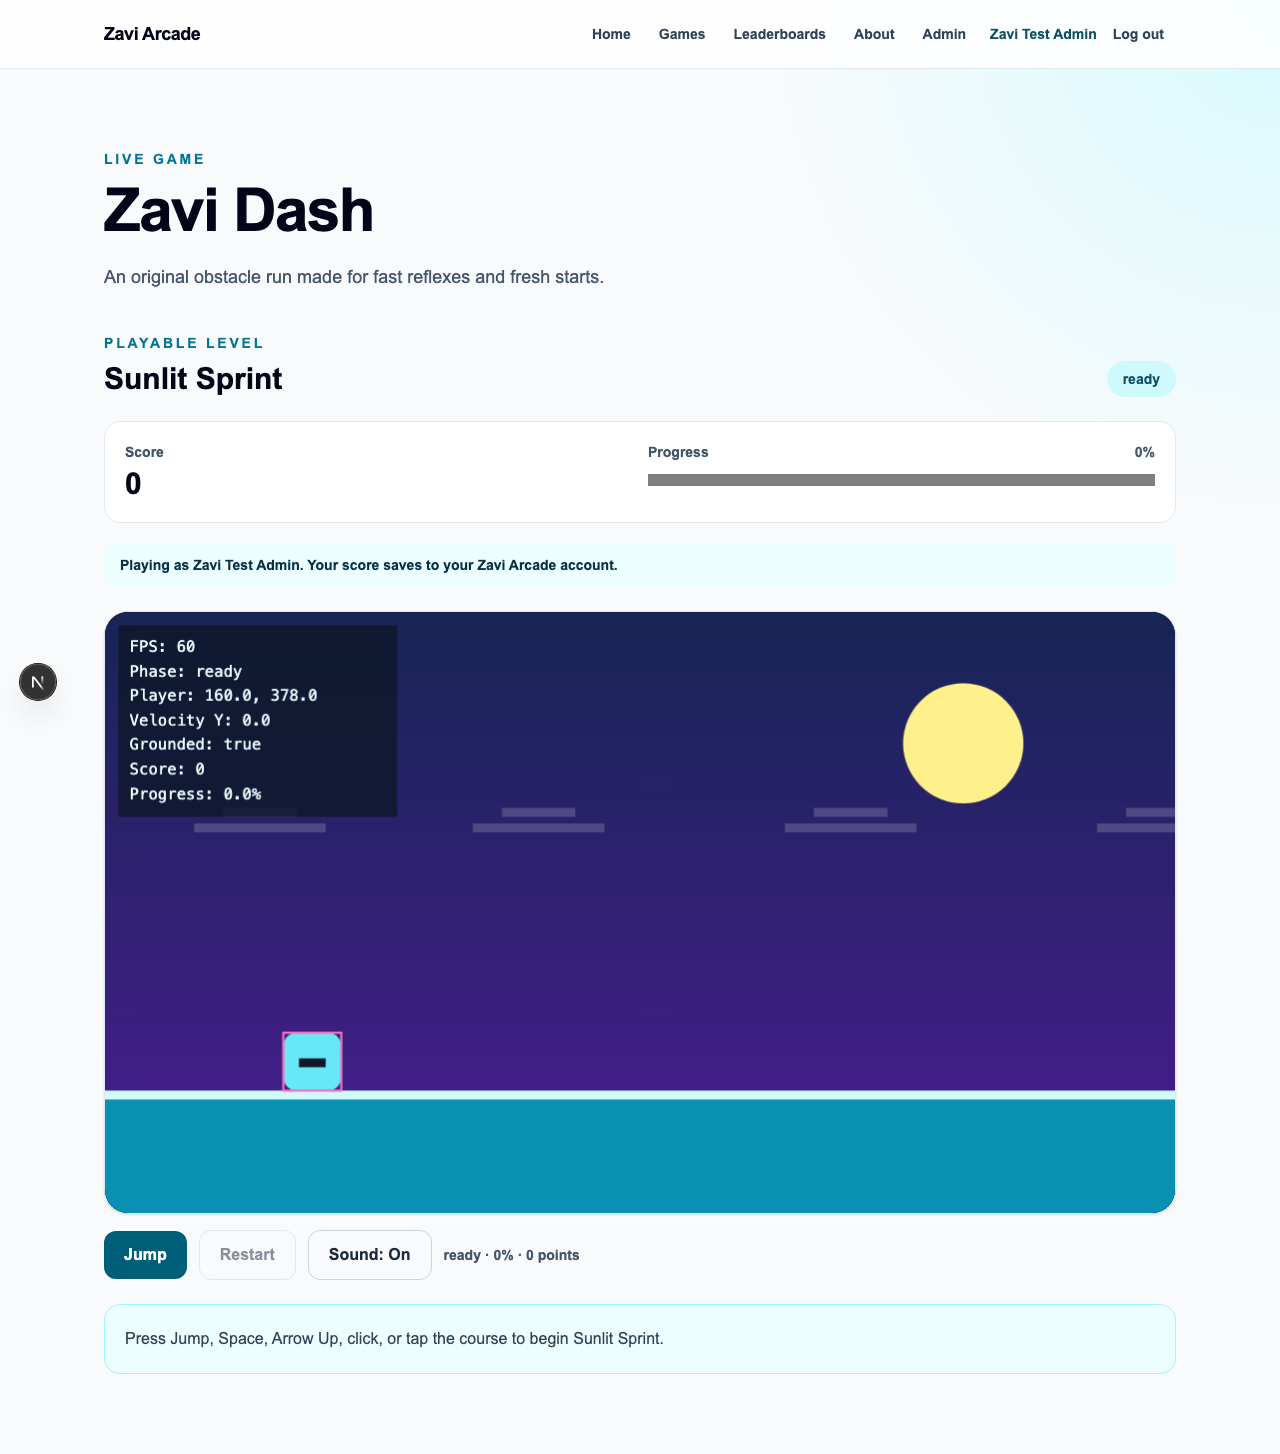
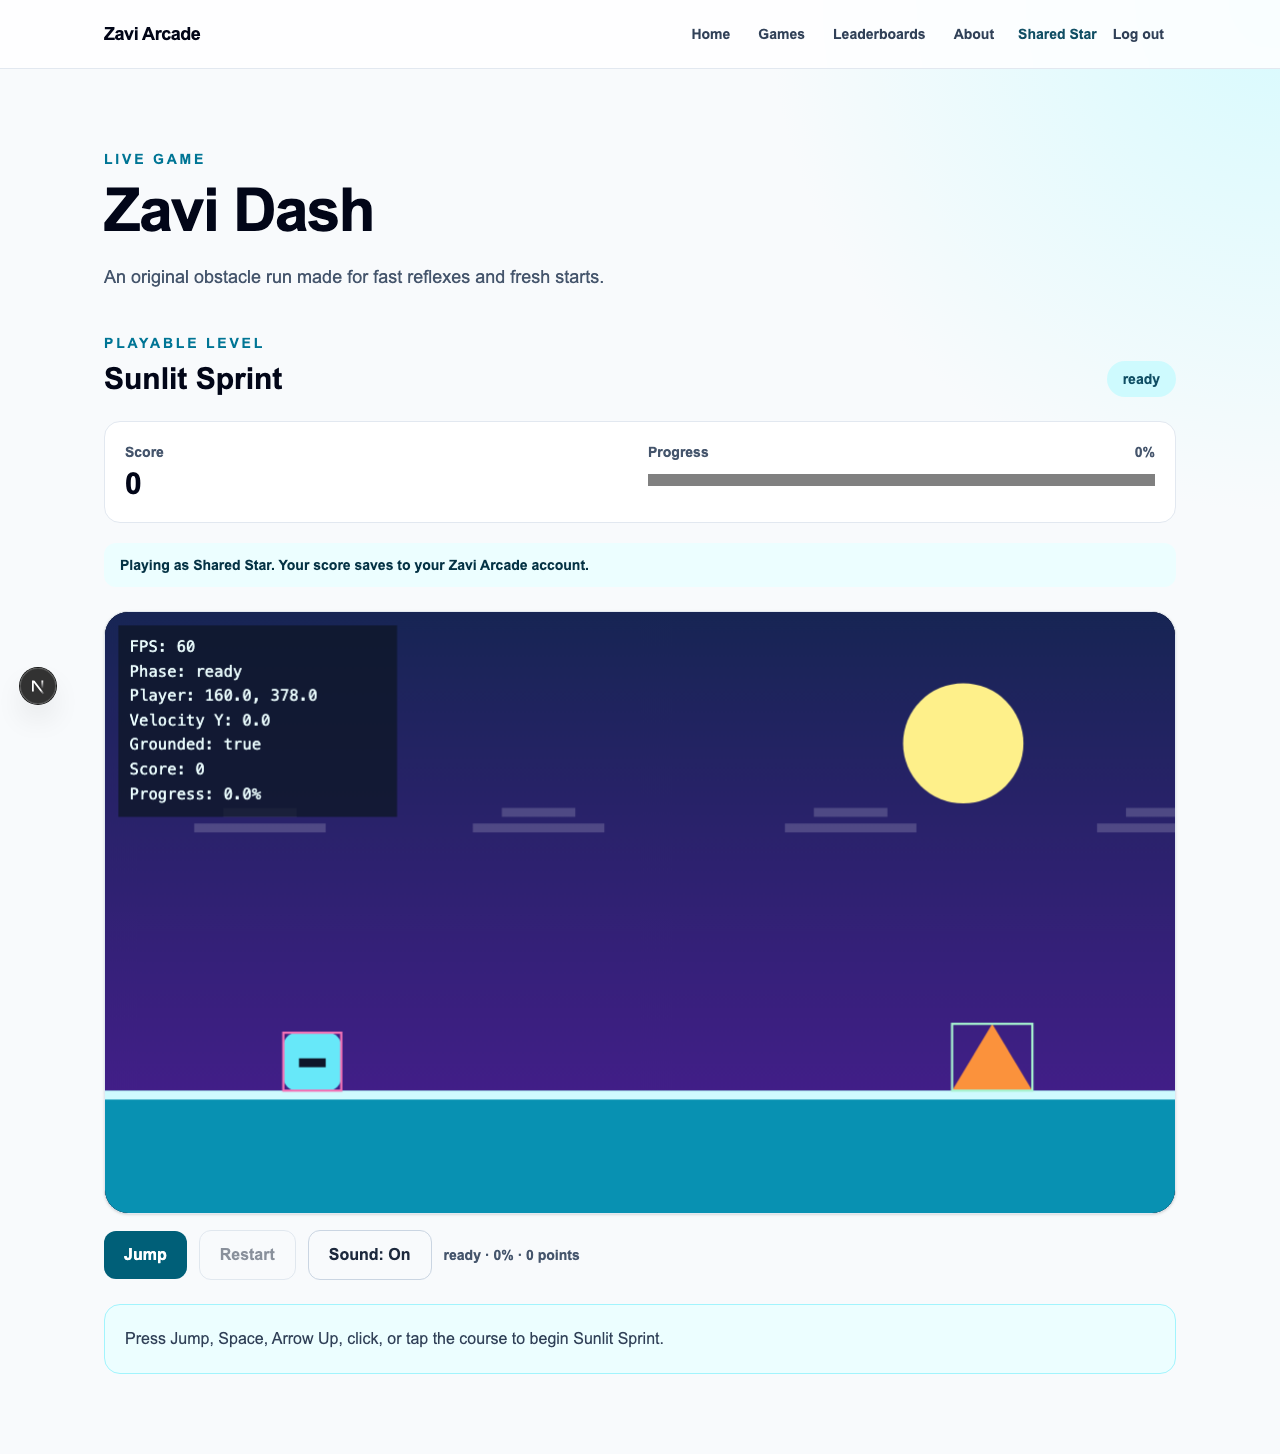
Fix temporary password completion

diff --git a/tests/browser/accounts.spec.ts b/tests/browser/accounts.spec.ts
@@ -33,6 +33,8 @@ test.describe("central player accounts", () => {
     await page.getByRole("button", { name: "Create player account" }).click();
     await expect(page.getByText("Copy this temporary password now")).toBeVisible();
     await expect(page.getByRole("heading", { name: "Shared Star" }).last()).toBeVisible();
+    const temporaryPassword = (await page.locator(".select-all").textContent())?.trim();
+    expect(temporaryPassword).toBeTruthy();
     if (testInfo.project.name === "desktop-chromium") {
       await page.locator(".select-all").evaluate((element) => {
         element.textContent = "Temporary password shown once (hidden in screenshot)";
@@ -40,8 +42,24 @@ test.describe("central player accounts", () => {
       await page.screenshot({ fullPage: true, path: "docs/screenshots/admin-player-created.png" });
     }
 
-    await page.goto("/games/zavi-dash?e2e=running");
-    await expect(page.getByText(`Playing as ${admin.displayName}`)).toBeVisible();
+    if (testInfo.project.name.startsWith("mobile")) {
+      await page.getByText("Menu", { exact: true }).click();
+    }
+    await page.getByRole("button", { name: "Log out" }).click();
+    await expect(page).toHaveURL("/");
+    await page.goto("/login?returnTo=/games/zavi-dash");
+    await page.getByLabel("Username").fill(username);
+    await page.getByLabel("Password").fill(temporaryPassword!);
+    await page.getByRole("button", { name: "Log in and play" }).click();
+    await expect(page).toHaveURL(/\/account\/change-password/);
+    const newPassword = `new-${crypto.randomUUID()}!`;
+    await page.getByLabel("Temporary password").fill(temporaryPassword!);
+    await page.getByLabel("New password", { exact: true }).fill(newPassword);
+    await page.getByLabel("Type it again").fill(newPassword);
+    await page.getByRole("button", { name: "Save password and continue" }).click();
+
+    await expect(page).toHaveURL("/games/zavi-dash");
+    await expect(page.getByText("Playing as Shared Star")).toBeVisible();
     await expect(page.getByRole("textbox", { name: "Player name" })).toHaveCount(0);
     if (testInfo.project.name === "desktop-chromium") {
       await page.screenshot({ fullPage: true, path: "docs/screenshots/authenticated-zavi-dash.png" });

diff --git a/src/features/auth/server/complete-temporary-password-change.test.ts b/src/features/auth/server/complete-temporary-password-change.test.ts
@@ -1,0 +1,46 @@
+import { describe, expect, it, vi } from "vitest";
+import {
+  AccountCompletionError,
+  completeTemporaryPasswordChange,
+} from "./complete-temporary-password-change";
+
+describe("completeTemporaryPasswordChange", () => {
+  it("clears the temporary flag by stable user ID after Better Auth rotates the session", async () => {
+    const changePassword = vi.fn().mockResolvedValue({ token: "replacement-session" });
+    const run = vi.fn().mockResolvedValue({ meta: { changes: 1 } });
+    const bind = vi.fn().mockReturnValue({ run });
+    const prepare = vi.fn().mockReturnValue({ bind });
+
+    await completeTemporaryPasswordChange({
+      auth: { api: { changePassword } } as never,
+      currentPassword: "temporary-password",
+      database: { prepare } as never,
+      newPassword: "new-secure-password",
+      requestHeaders: new Headers({ cookie: "old-session" }),
+      userId: "stable-user-id",
+    });
+
+    expect(changePassword).toHaveBeenCalledWith(expect.objectContaining({
+      body: expect.objectContaining({ revokeOtherSessions: true }),
+    }));
+    expect(bind).toHaveBeenCalledWith(expect.any(String), "stable-user-id");
+  });
+
+  it("distinguishes a post-password-change database failure", async () => {
+    const auth = { api: { changePassword: vi.fn().mockResolvedValue({}) } } as never;
+    const database = {
+      prepare: () => ({
+        bind: () => ({ run: vi.fn().mockRejectedValue(new Error("D1 unavailable")) }),
+      }),
+    } as never;
+
+    await expect(completeTemporaryPasswordChange({
+      auth,
+      currentPassword: "temporary-password",
+      database,
+      newPassword: "new-secure-password",
+      requestHeaders: new Headers(),
+      userId: "stable-user-id",
+    })).rejects.toBeInstanceOf(AccountCompletionError);
+  });
+});

diff --git a/src/app/account/change-password/actions.ts b/src/app/account/change-password/actions.ts
@@ -1,8 +1,13 @@
 "use server";
 
+import { getCloudflareContext } from "@opennextjs/cloudflare";
 import { headers } from "next/headers";
 import { redirect } from "next/navigation";
 import { safeReturnTo } from "@/features/auth/application/validation";
+import {
+  AccountCompletionError,
+  completeTemporaryPasswordChange,
+} from "@/features/auth/server/complete-temporary-password-change";
 import { getAuthForRequest, getSession } from "@/features/auth/server/session";
 
 export async function changeTemporaryPassword(formData: FormData) {
@@ -17,16 +22,18 @@ export async function changeTemporaryPassword(formData: FormData) {
   }
   try {
     const auth = await getAuthForRequest();
-    await auth.api.changePassword({
-      body: { currentPassword, newPassword, revokeOtherSessions: true },
-      headers: await headers(),
+    const { env } = await getCloudflareContext({ async: true });
+    await completeTemporaryPasswordChange({
+      auth,
+      currentPassword,
+      database: env.DB,
+      newPassword,
+      requestHeaders: await headers(),
+      userId: session.user.id,
     });
-    await auth.api.updateUser({
-      body: { mustChangePassword: false },
-      headers: await headers(),
-    });
-  } catch {
-    redirect(`/account/change-password?returnTo=${encodeURIComponent(returnTo)}&error=current`);
+  } catch (error) {
+    const reason = error instanceof AccountCompletionError ? "service" : "current";
+    redirect(`/account/change-password?returnTo=${encodeURIComponent(returnTo)}&error=${reason}`);
   }
   redirect(returnTo);
 }

diff --git a/src/features/auth/server/complete-temporary-password-change.ts b/src/features/auth/server/complete-temporary-password-change.ts
@@ -1,0 +1,42 @@
+import type { ZaviAuth } from "./auth";
+
+export class AccountCompletionError extends Error {
+  constructor() {
+    super("The password changed, but the account could not be marked ready.");
+    this.name = "AccountCompletionError";
+  }
+}
+
+export async function completeTemporaryPasswordChange({
+  auth,
+  currentPassword,
+  database,
+  newPassword,
+  requestHeaders,
+  userId,
+}: {
+  auth: ZaviAuth;
+  currentPassword: string;
+  database: D1Database;
+  newPassword: string;
+  requestHeaders: Headers;
+  userId: string;
+}): Promise<void> {
+  await auth.api.changePassword({
+    body: { currentPassword, newPassword, revokeOtherSessions: true },
+    headers: requestHeaders,
+  });
+
+  try {
+    const result = await database.prepare(
+      `UPDATE "user" SET mustChangePassword = 0, updatedAt = ? WHERE id = ?`,
+    ).bind(new Date().toISOString(), userId).run();
+    if (result.meta.changes !== 1) throw new Error("Authenticated account was not updated.");
+  } catch (error) {
+    console.error("Temporary password changed but account completion failed", {
+      userId,
+      message: error instanceof Error ? error.message : "Unknown account completion error",
+    });
+    throw new AccountCompletionError();
+  }
+}

diff --git a/src/app/account/change-password/page.tsx b/src/app/account/change-password/page.tsx
@@ -25,7 +25,11 @@ export default async function ChangePasswordPage({
         </p>
         {query.error ? (
           <p className="mt-5 rounded-xl bg-rose-50 p-3 text-sm font-semibold text-rose-800" role="alert">
-            {query.error === "current" ? "The temporary password was not correct." : "Passwords must match and contain at least 12 characters."}
+            {query.error === "current"
+              ? "The temporary password was not correct."
+              : query.error === "service"
+                ? "Your password changed, but the account could not be marked ready. Ask your administrator to reset it once more."
+                : "Passwords must match and contain at least 12 characters."}
           </p>
         ) : null}
         <form action={changeTemporaryPassword} className="mt-7 space-y-5">
